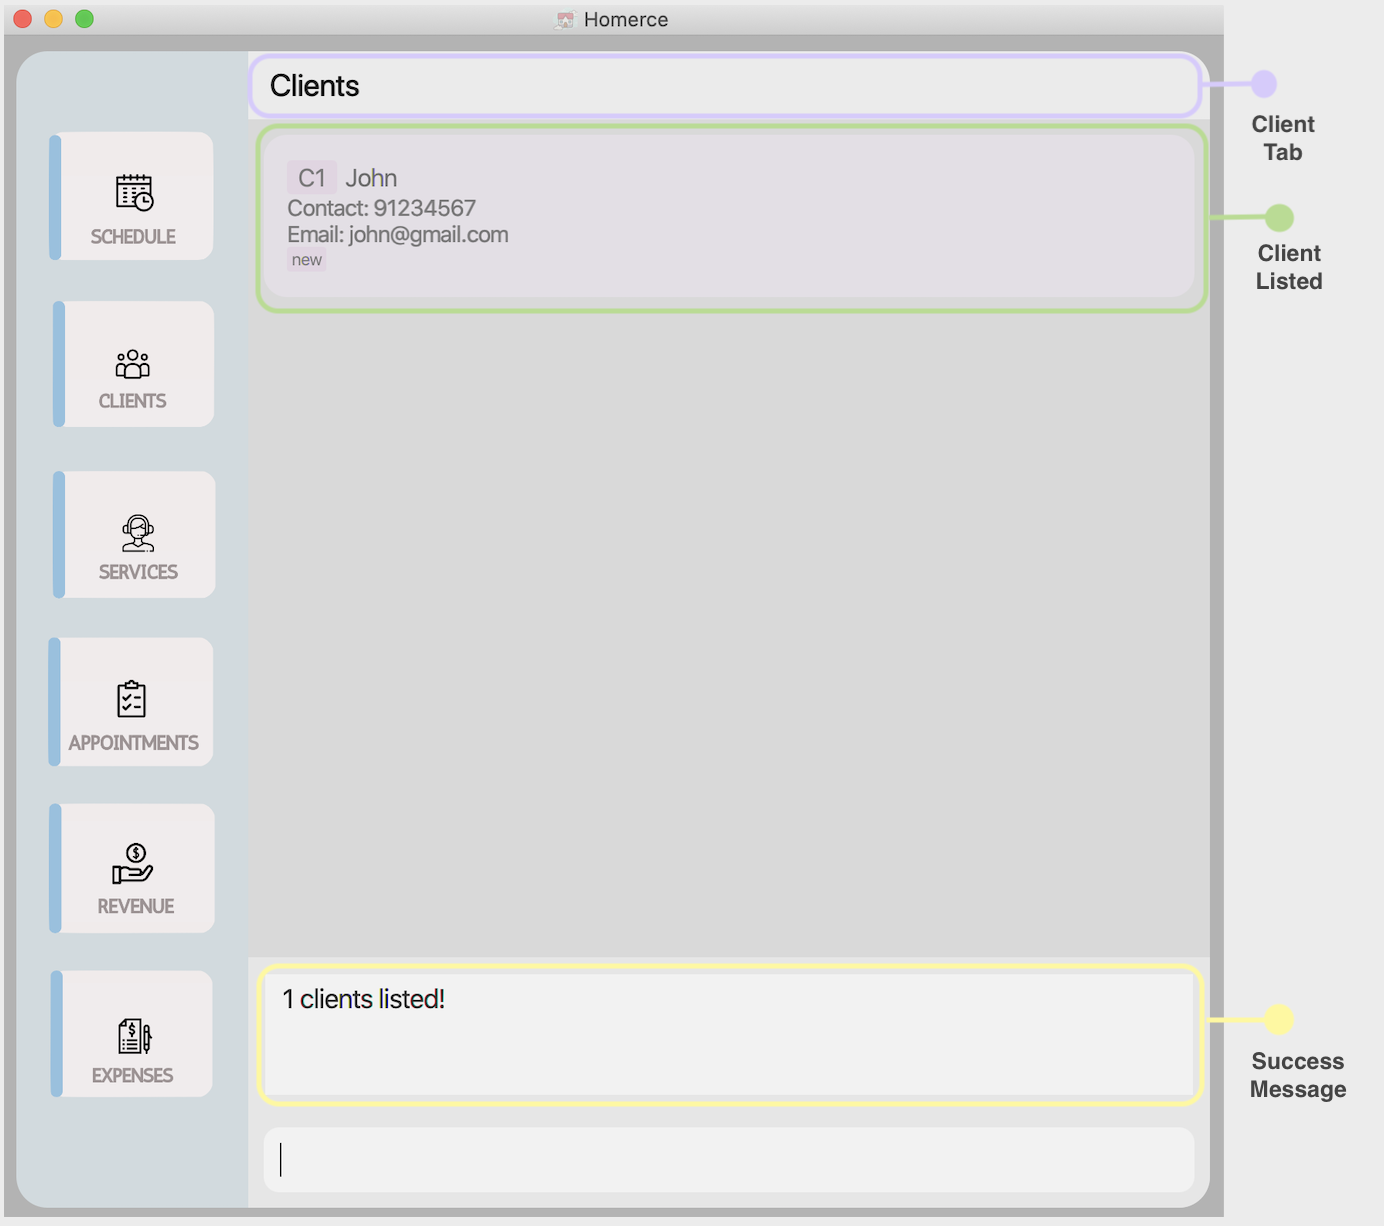
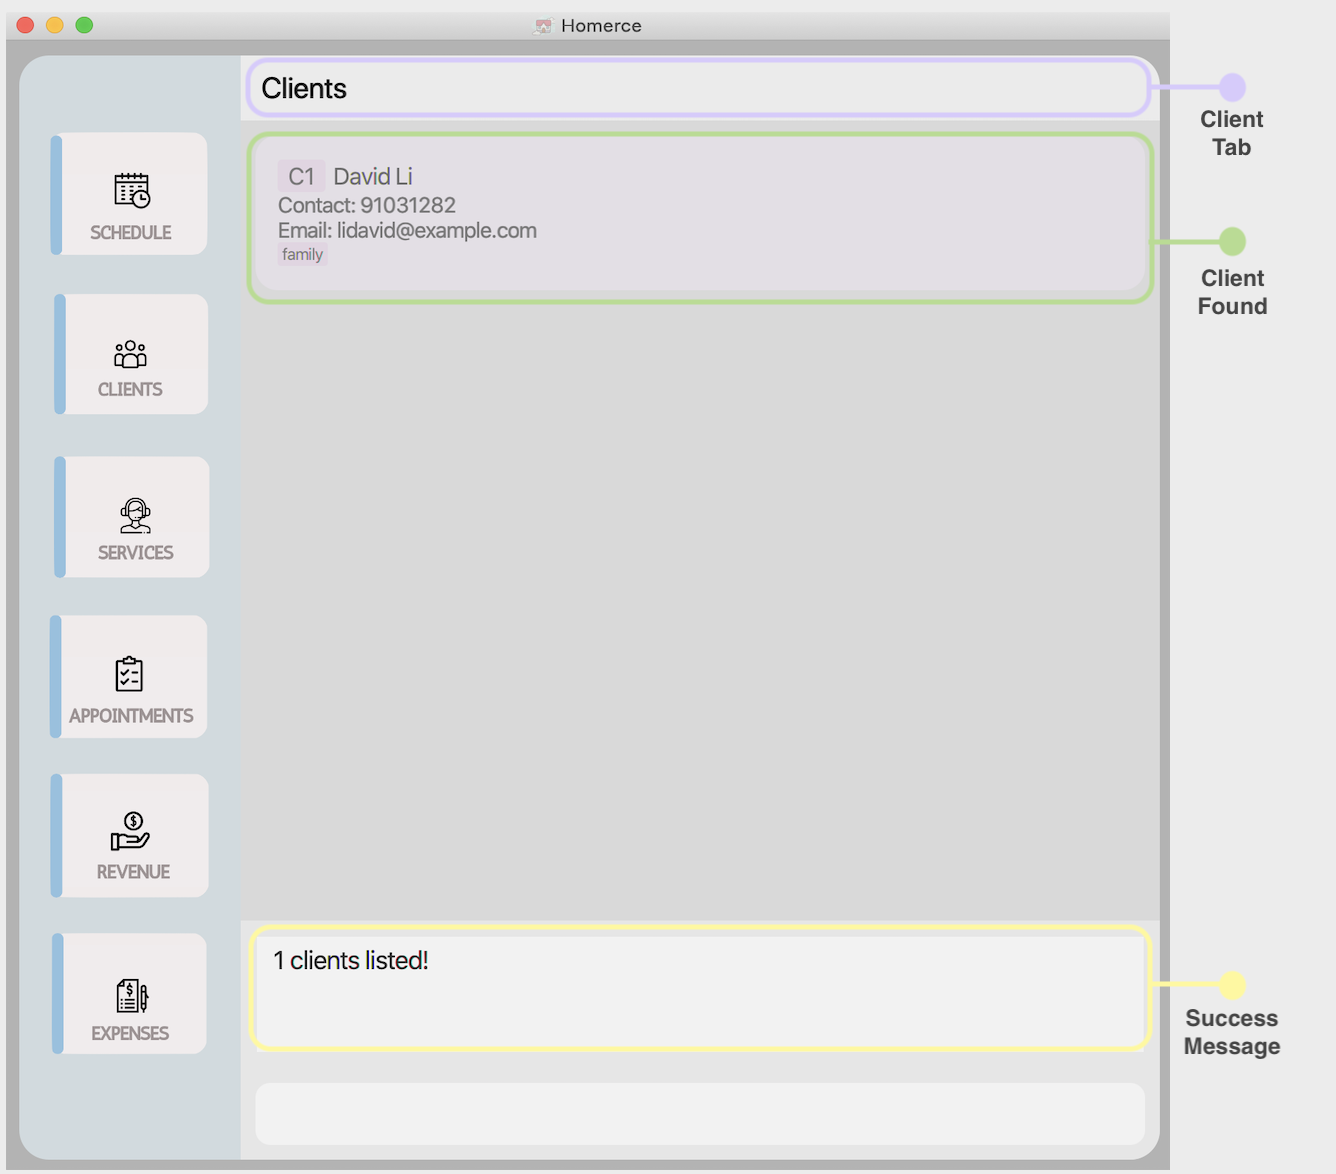
Update Client UG screenshots and examples

Changed region(s): [[0.0, 0.0, 0.982, 1.0]]

diff --git a/docs/team/yanlynnnnn.md b/docs/team/yanlynnnnn.md
@@ -11,12 +11,12 @@ The application uses a Command Line Interface (CLI).
 
 This portfolio aims to document the contributions that I have made to Homerce <br>
 Click [here](https://nus-cs2103-ay2021s1.github.io/tp-dashboard/#breakdown=true&search=&sort=groupTitle&sortWithin=title&since=2020-08-14&timeframe=commit&mergegroup=&groupSelect=groupByRepos&checkedFileTypes=docs~functional-code~test-code~other&tabOpen=true&tabType=authorship&tabAuthor=yanlynnnnn&tabRepo=AY2021S1-CS2103T-W13-3%2Ftp%5Bmaster%5D&authorshipIsMergeGroup=false&authorshipFileTypes=docs~functional-code~test-code)
-to view Yan Lyn's code contributions.
+to view my code contributions.
 
 **Enhancements Implemented:** <br>
 
 <u>Implementation of Expense Tracker</u> <br>
-The Expense Tracker was implemented to help users keep track of their expenses and manage their expenditure.
+The Expense Tracker was implemented to help users keep track of their expenses.
 
 1. Implementation of 5 basic commands (Pull Request [#68](https://github.com/AY2021S1-CS2103T-W13-3/tp/pull/68),
 Pull Request [#99](https://github.com/AY2021S1-CS2103T-W13-3/tp/pull/99))
@@ -79,7 +79,7 @@ Expense Tracker, and Revenue Tracker panels (Pull Request [#223](https://github.
 1. Appendix F: Manual Testing (Pull Request [#356](https://github.com/AY2021S1-CS2103T-W13-3/tp/pull/356))
 1. Appendix G: Effort (Pull Request [#356](https://github.com/AY2021S1-CS2103T-W13-3/tp/pull/356))
 
-**Contributions to documentation (Extracts)**
+**Contributions to documentation (Extracts)**<br>
 The contributions listed in this section will not be extensive, please refer to the respective documents for the full contributions.
 
 **Developer Guide**

diff --git a/docs/UserGuide.md b/docs/UserGuide.md
@@ -260,7 +260,7 @@ Let's say a client repeatedly fails to turn up for his appointments and you wish
 You can follow the steps below to delete the client.
 
 Steps :
-1. Type `deletecli 3` in the _Command Box_.
+1. Type `deletecli 6` in the _Command Box_.
 2. Press `Enter` to execute.
 
 Outcome :
@@ -291,11 +291,11 @@ Format : `findcli [n/NAME]* [p/PHONE]*`
 
 Example :
 
-Let's say you have many clients in your client list and wish to find more information on the client named John. <br>
+Let's say you have many clients in your client list and wish to find more information on the client named David. <br>
 You can follow the steps below to get a list of clients named John
 
 Steps :
-1. Type `findcli n/John` in the _Command Box_.
+1. Type `findcli n/David` in the _Command Box_.
 2. Press `Enter` to execute.
 
 Outcome :
